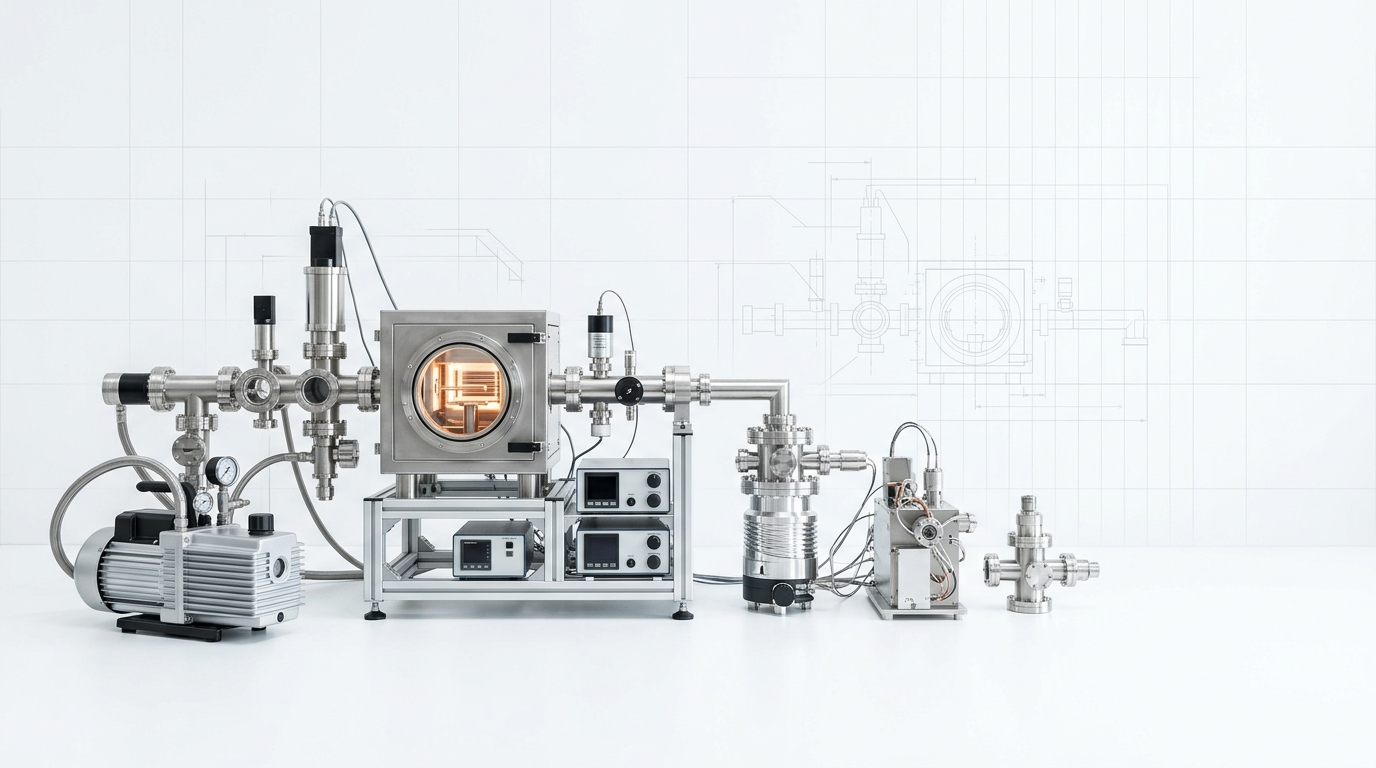
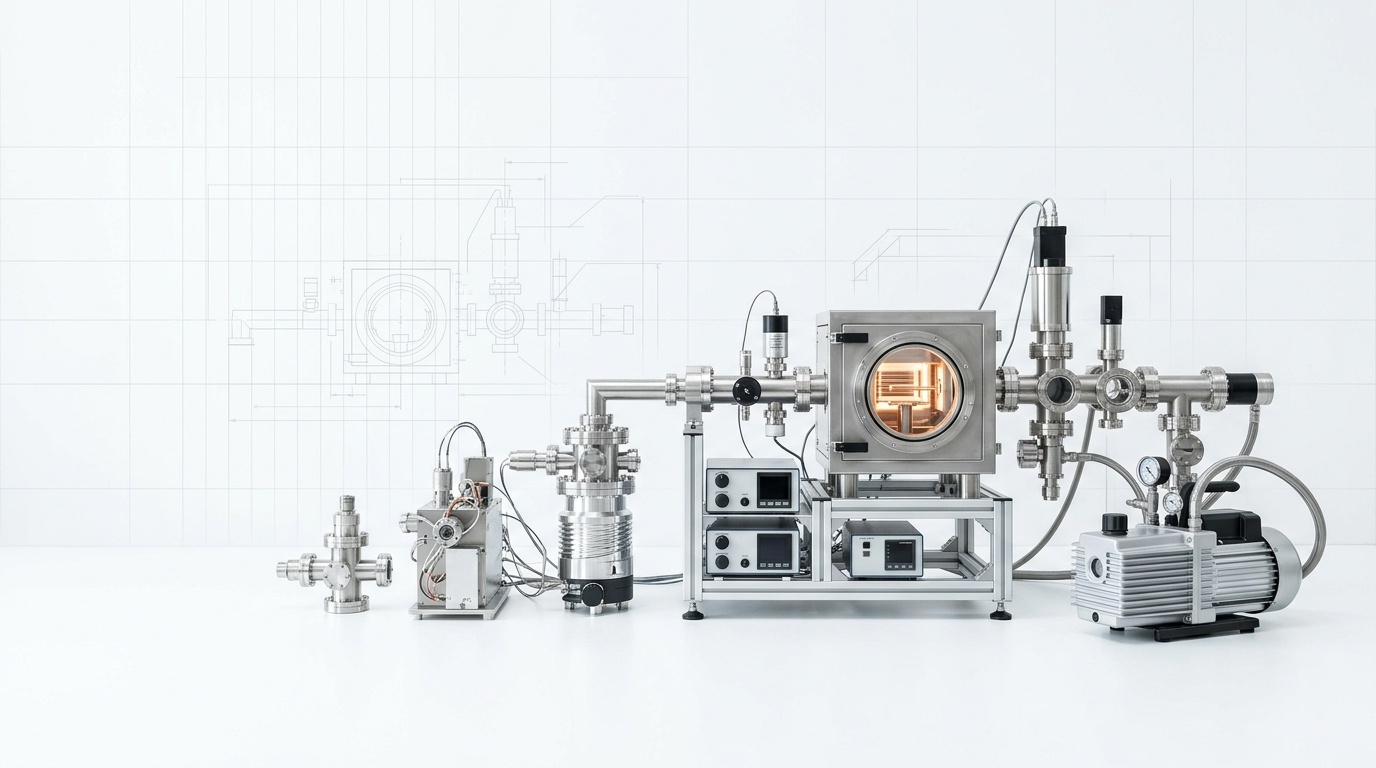
feat: move homepage hero equipment image to the right side and preserve clean negative space on the left

Changed region(s): [[0.0312, 0.25, 0.9688, 0.875]]

diff --git a/src/components/business/HeroStrategicAnchor.tsx b/src/components/business/HeroStrategicAnchor.tsx
@@ -18,12 +18,11 @@ export function HeroStrategicAnchor() {
           fill
           priority
           quality={95}
-          className="object-cover object-right lg:object-center opacity-90"
+          className="object-cover object-right opacity-95"
           sizes="100vw"
         />
-        {/* Soft white gradient mask on the left so headline & copy remain razor-sharp */}
-        <div className="absolute inset-0 bg-gradient-to-r from-white via-white/90 to-transparent sm:via-white/80 max-w-4xl" />
-        <div className="absolute inset-0 bg-white/20" />
+        {/* Soft subtle gradient to guarantee crisp headline contrast */}
+        <div className="absolute inset-0 bg-gradient-to-r from-white via-white/85 to-transparent max-w-3xl" />
       </div>
 
       <div className="max-w-container mx-auto px-4 relative z-10">
